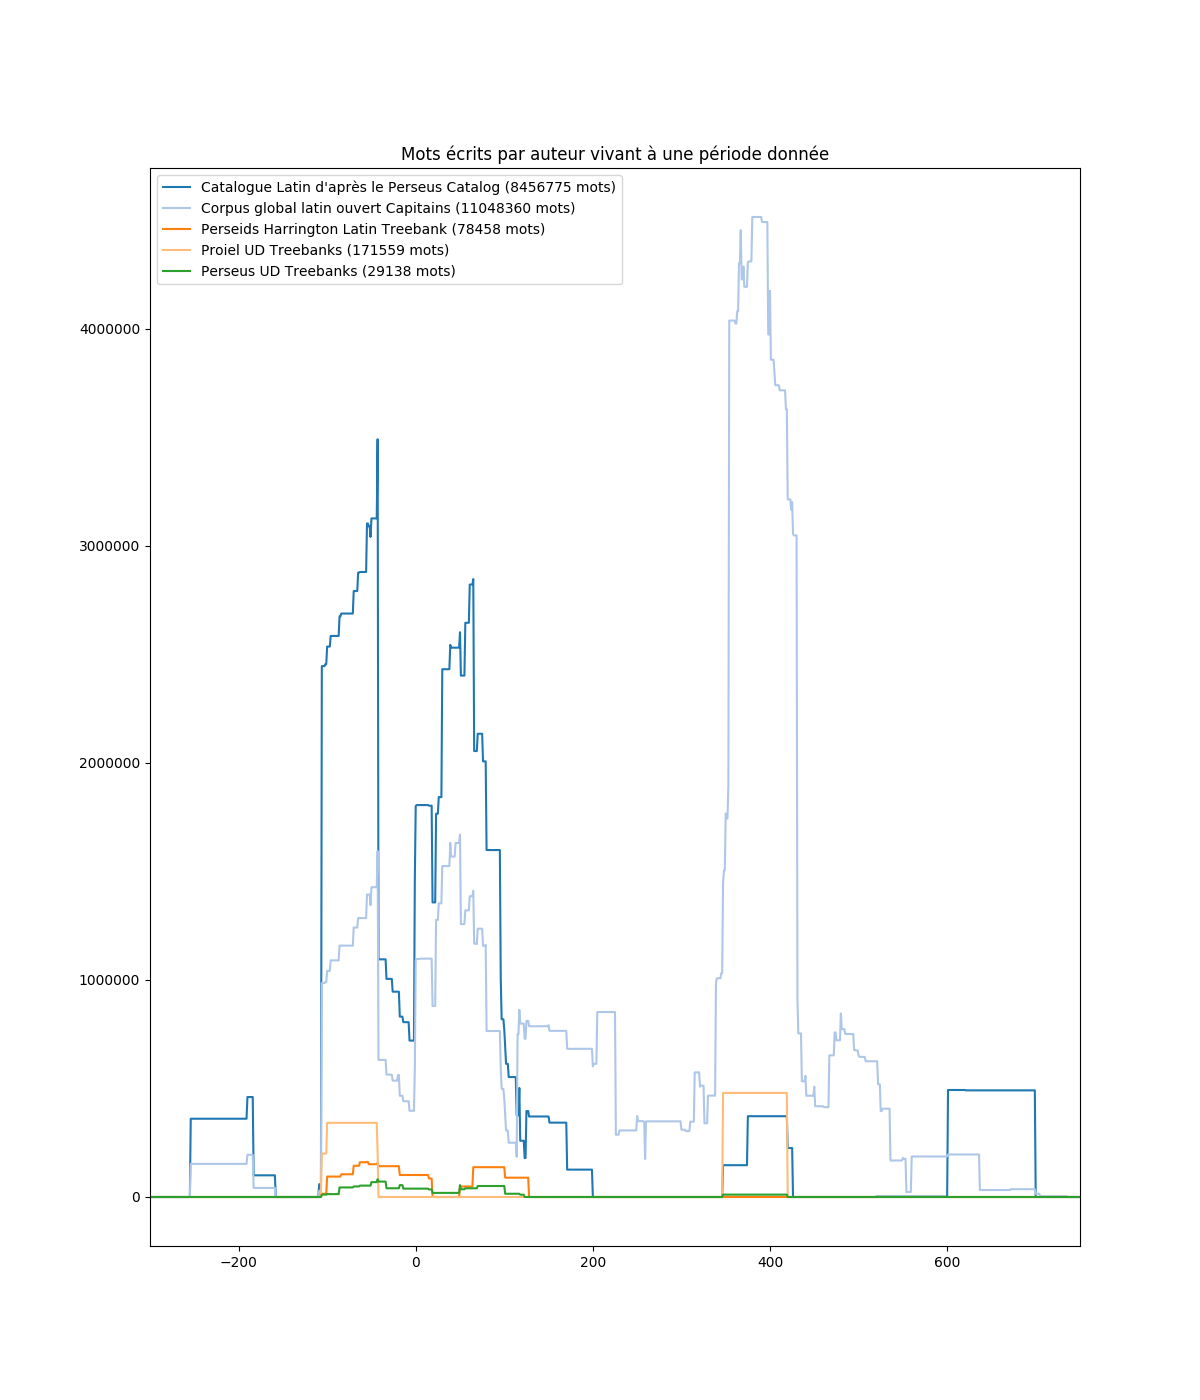
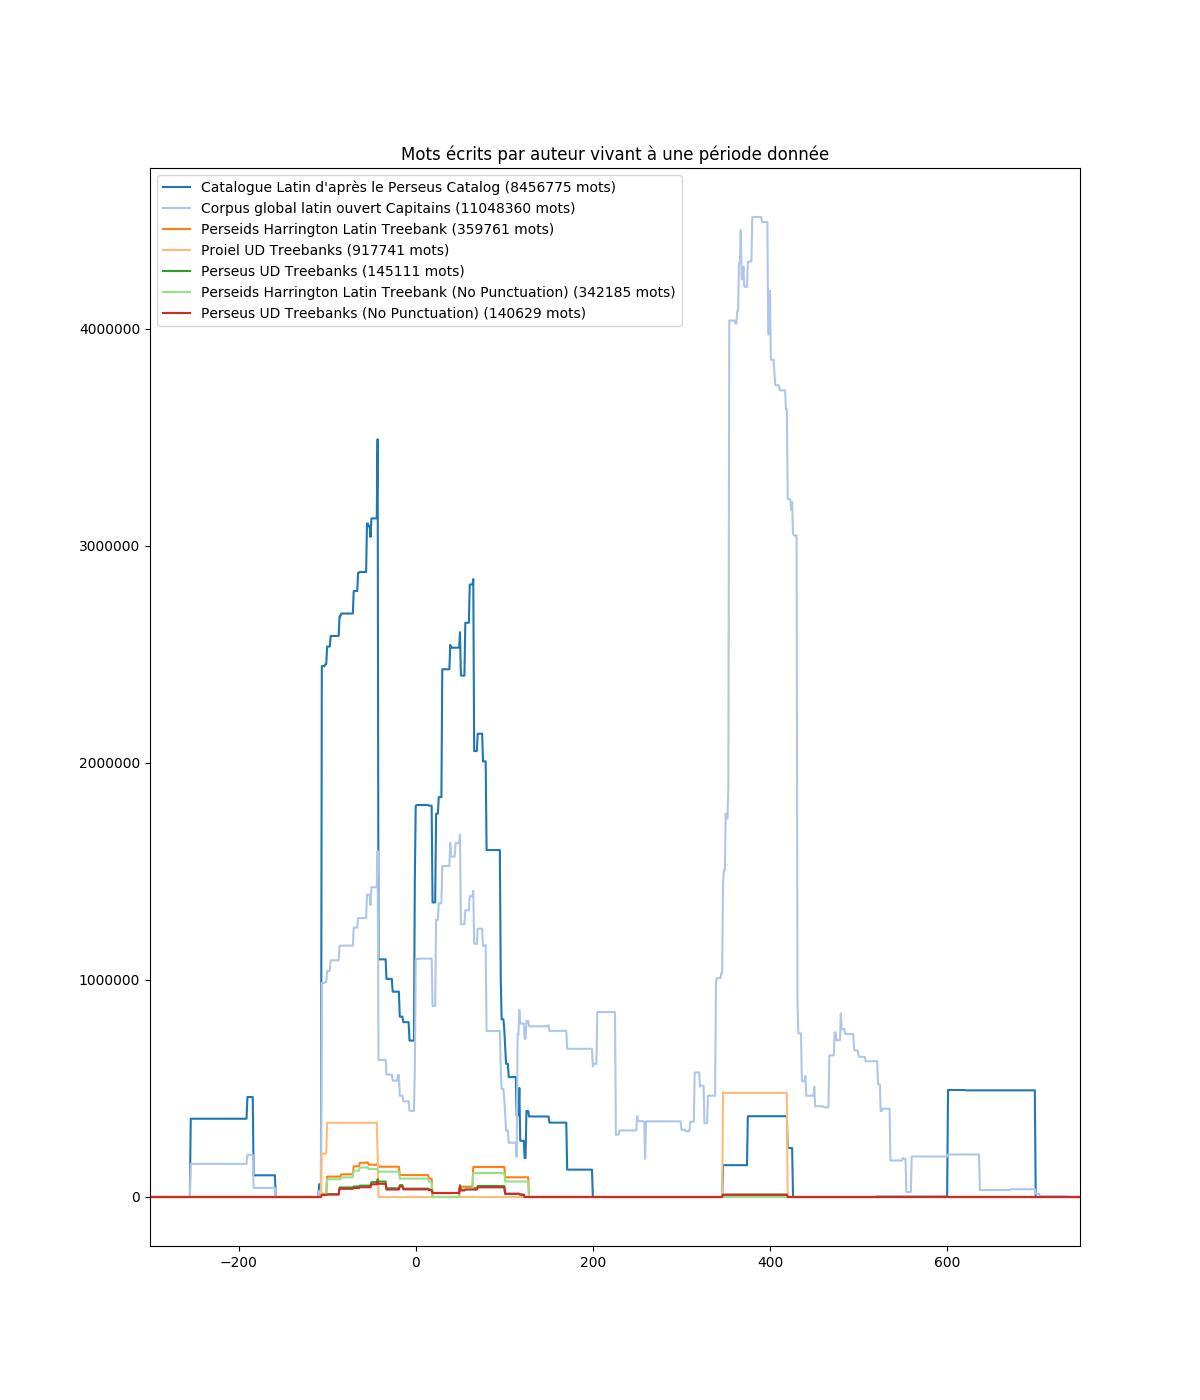
Analysis with filtered data is OKAY

Changed region(s): [[0.185, 0.1536, 0.555, 0.2457], [0.2775, 0.8293, 0.4625, 0.86], [0.6167, 0.8293, 0.6475, 0.86]]

diff --git a/helpers/treebanks/xml.py b/helpers/treebanks/xml.py
@@ -79,10 +79,21 @@ class PerseidsXMLCorpus(TreebankCorpus):
                     document_id = URN(document_id)
                     document_id = str(document_id.upTo(URN.VERSION))
 
-                    words = " ".join(sentence.xpath(".//word/@form"))
-                    if words not in data[document_id]:
-                        yield document_id.replace("lat1", "lat2"), sentence, words, " ".join(sentence.xpath(".//word/@lemma"))
-                        data[document_id].append(words)
+                    tags = [
+                        tag
+                        for tag in sentence.xpath(".//word")
+                        if (not self.remove or not self.remove.match(tag.get("form"))) and
+                           tag.get("lemma")
+                    ]
+
+                    words = [tag.get("form") for tag in tags]
+                    lemmas = [tag.get("lemma") for tag in tags]
+                    postags = [tag.get("postag") for tag in tags]
+                    joined_words = " ".join(words)
+
+                    if joined_words not in data[document_id]:
+                        yield document_id.replace("lat1", "lat2"), tags, words, lemmas, postags
+                        data[document_id].append(joined_words)
                     else:
                         if filename not in said_it_was_a_duplicate:
                             print(SUBSUBTASK_SEPARATOR + filename + " is a duplicate treebank")
@@ -94,10 +105,10 @@ class PerseidsXMLCorpus(TreebankCorpus):
         ))
 
     def parse(self):
-        for doc, s, words, lemmas in self.parse_sentences():
-            self._words[doc] += words.split()
-            self._lemmas[doc] += lemmas.split()
-            for postag in s.xpath(".//@postag"):
+        for doc, s, words, lemmas, postags in self.parse_sentences():
+            self._words[doc] += words
+            self._lemmas[doc] += lemmas
+            for postag in postags:
                 try:
                     self._types[doc][_CONLL_LA_CONV_DICT.get(postag[0], postag[0])] += 1
                 except:

diff --git a/analysis/general_analysis/treebank_analysis.py b/analysis/general_analysis/treebank_analysis.py
@@ -2,7 +2,7 @@ from .corpus_analysis import time_analysis
 import collections
 from helpers.reader.curated import get_graph, get_texts, get_text_length_dict
 from helpers.metadata import wordcounts
-from helpers.treebanks import Corpora, flatten_doc_dict
+from helpers.treebanks import Corpora, flatten_doc_dict, Filtered_Corpora, doc_token_dict_sum
 import matplotlib.pyplot as plt
 import copy
 import pandas
@@ -76,6 +76,8 @@ def build_series(graph, texts_dict, wc):
         )
     ]
 
+    InitialDataOffset = 2
+
     hypo_dict = copy.deepcopy(wc)
     hypo_dict.update(texts_dict)
 
@@ -91,10 +93,23 @@ def build_series(graph, texts_dict, wc):
         data.append(_Serie(
             corpus.name,
             len(corpus.words),
-            sum([len(li) for li in corpus.words.values()]),
+            doc_token_dict_sum(corpus.words),
             *time_analysis(graph, corpus.tokens_by_document, False, False))
         )
-    return data, hypothetical
+    filtered = []
+    for index, corpus in enumerate(Filtered_Corpora):
+        corpus.parse()
+
+        cwc = doc_token_dict_sum(corpus.words)
+
+        if cwc != data[index+InitialDataOffset].word_count:
+            filtered.append(_Serie(
+                corpus.name,
+                len(corpus.words),
+                cwc,
+                *time_analysis(graph, corpus.tokens_by_document, False, False))
+            )
+    return data, filtered, hypothetical
 
 
 def draw_series_graph(data, hypothetical):
@@ -169,10 +184,10 @@ def run(corpora):
     wc = wordcounts.build()
 
     # Build Pandas Series
-    data, hypothetical = build_series(graph, texts_dict, wc)
+    data, filtered_data, hypothetical = build_series(graph, texts_dict, wc)
 
     # Draw graph representation of series
-    #draw_series_graph(data, hypothetical)
+    draw_series_graph(data+filtered_data, hypothetical)
 
     # Drawing graphical analysis of each corpus
     draw_corpus_POS()

diff --git a/helpers/treebanks/__init__.py b/helpers/treebanks/__init__.py
@@ -1,10 +1,18 @@
 from .xml import PerseidsXMLCorpus
 from .conllu import ConlluTreebank
-from .utils import flatten_doc_dict
+from .utils import flatten_doc_dict, doc_token_dict_sum
+
 
 Harrington = PerseidsXMLCorpus(
     "data/raw/treebanks_xml/perseids-project_harrington_trees/harrington_trees-*/CITE_TREEBANK_XML/perseus/lattb/**/*.xml",
     name="Perseids Harrington Latin Treebank"
+)
+
+
+Harrington_filtered = PerseidsXMLCorpus(
+    "data/raw/treebanks_xml/perseids-project_harrington_trees/harrington_trees-*/CITE_TREEBANK_XML/perseus/lattb/**/*.xml",
+    name="Perseids Harrington Latin Treebank (No Punctuation)",
+    remove="^\W+$"
 )
 
 
@@ -14,9 +22,21 @@ Proiel = ConlluTreebank(
 )
 
 
+Proiel_filtered = ConlluTreebank(
+    "data/raw/treebanks_conllu/UniversalDependencies_UD_Latin-PROIEL/UD_Latin-PROIEL-*/*.conllu",
+    name="Proiel UD Treebanks (No Punctuation)",
+    remove="^\W+$"
+)
+
+
 Perseus = ConlluTreebank(
     "data/raw/treebanks_conllu/UniversalDependencies_UD_Latin-Perseus/UD_Latin-Perseus-*/*.conllu",
     name="Perseus UD Treebanks"
+)
+Perseus_filtered = ConlluTreebank(
+    "data/raw/treebanks_conllu/UniversalDependencies_UD_Latin-Perseus/UD_Latin-Perseus-*/*.conllu",
+    name="Perseus UD Treebanks (No Punctuation)",
+    remove="^\W+$"
 )
 
 
@@ -24,4 +44,10 @@ Corpora = [
     Harrington,
     Proiel,
     Perseus
+]
+
+Filtered_Corpora = [
+    Harrington_filtered,
+    Proiel_filtered,
+    Perseus_filtered
 ]

diff --git a/helpers/treebanks/base.py b/helpers/treebanks/base.py
@@ -2,6 +2,7 @@ import abc
 import glob
 import statistics
 import collections
+import re
 
 
 class TreebankCorpus:
@@ -10,7 +11,7 @@ class TreebankCorpus:
     :param files: Files that needs to be read (can be a glob pattern)
     :param name: Name of the corpus
     """
-    def __init__(self, files, name):
+    def __init__(self, files, name, remove=None):
         self.name = name
         if isinstance(files, str):
             files = glob.glob(files)
@@ -19,6 +20,9 @@ class TreebankCorpus:
         self._words = collections.defaultdict(list)
         self._lemmas = collections.defaultdict(list)
         self._types = collections.defaultdict(lambda: collections.defaultdict(lambda: 0))
+        self.remove = remove
+        if remove:
+            self.remove = re.compile(remove)
 
     @property
     def doc_count(self):

diff --git a/helpers/treebanks/conllu.py b/helpers/treebanks/conllu.py
@@ -65,7 +65,11 @@ class ConlluTreebank(TreebankCorpus):
                     }
 
                     try:
-                        tokens = parse(sentence)[0]
+                        tokens = [
+                            tok
+                            for tok in parse(sentence)[0]
+                            if not self.remove or not self.remove.match(tok["form"])
+                        ]
 
                         document_id = metadata.get("source", metadata.get("sent_id"))
                         document_id = URN(conversion(document_id))

diff --git a/helpers/treebanks/utils.py b/helpers/treebanks/utils.py
@@ -11,3 +11,19 @@ def flatten_doc_dict(data):
     for count_dict in data.values():
         new.update(count_dict)
     return new
+
+
+def doc_token_dict_sum(data):
+    """ Token count Dict into count of words {docId : [words]} -> int
+
+    :param data:{docId : [tokenCount]}
+    :type data: dict
+    :return:
+    """
+    return sum([
+        len(tokenCount)
+        for tokenCountList in data.values()
+        for tokenCount in tokenCountList
+    ])
+
+

diff --git a/helpers/reader/curated.py b/helpers/reader/curated.py
@@ -94,3 +94,4 @@ def ignored(graph):
             ?s lr:Ignore true
         }""")
     return [str(r) for r, *_ in results]
+

diff --git a/results/analysis/treebank_analysis/treebank_Perseids Harrington Latin Treebank.md b/results/analysis/treebank_analysis/treebank_Perseids Harrington Latin Treebank.md
@@ -1,13 +1,13 @@
 | Documents                                                        | Tokens     |
 | --                                                               | --         |
-| urn:cts:latinLit:phi1276.phi001.perseus-lat2                     | 17681      |
-| urn:cts:latinLit:phi0448.phi001.perseus-lat2                     | 15652      |
-| urn:cts:latinLit:phi0474.phi013.perseus-lat2                     | 1293       |
-| urn:cts:latinLit:phi0472.phi001.perseus-lat2                     | 2266       |
-| urn:cts:latinLit:phi0474.phi024.perseus-lat2                     | 1809       |
-| urn:cts:latinLit:phi0690.phi003.perseus-lat2                     | 7996       |
-| urn:cts:latinLit:phi0660.phi003.perseus-lat2                     | 323        |
-| urn:cts:latinLit:phi0959.phi001.perseus-lat2                     | 4208       |
-| urn:cts:latinLit:phi0959.phi006.perseus-lat2                     | 14240      |
-| urn:cts:latinLit:phi0972.phi001.perseus-lat2                     | 9910       |
-| urn:cts:latinLit:phi1221.phi007.perseus-lat2                     | 3080       |
+| urn:cts:latinLit:phi1221.phi007.perseus-lat2                     | 2970       |
+| urn:cts:latinLit:phi0690.phi003.perseus-lat2                     | 7307       |
+| urn:cts:latinLit:phi0472.phi001.perseus-lat2                     | 2137       |
+| urn:cts:latinLit:phi0474.phi013.perseus-lat2                     | 1241       |
+| urn:cts:latinLit:phi0972.phi001.perseus-lat2                     | 9190       |
+| urn:cts:latinLit:phi0959.phi006.perseus-lat2                     | 13018      |
+| urn:cts:latinLit:phi1276.phi001.perseus-lat2                     | 17265      |
+| urn:cts:latinLit:phi0660.phi003.perseus-lat2                     | 313        |
+| urn:cts:latinLit:phi0959.phi001.perseus-lat2                     | 3897       |
+| urn:cts:latinLit:phi0474.phi024.perseus-lat2                     | 1756       |
+| urn:cts:latinLit:phi0448.phi001.perseus-lat2                     | 15017      |

diff --git a/results/analysis/treebank_analysis/treebank_Perseus UD Treebanks.md b/results/analysis/treebank_analysis/treebank_Perseus UD Treebanks.md
@@ -1,14 +1,14 @@
 | Documents                                                        | Tokens     |
 | --                                                               | --         |
 | urn:cts:latinLit:phi0690.phi003.perseus-lat2                     | 776        |
-| urn:cts:greekLit:tlg0031.tlg027.perseus-lat2                     | 2001       |
-| urn:cts:latinLit:phi1221.phi007.perseus-lat2                     | 708        |
 | urn:cts:latinLit:phi1351.phi005.perseus-lat2                     | 866        |
+| urn:cts:latinLit:phi0474.phi013.perseus-lat2                     | 1897       |
 | urn:cts:latinLit:phi0975.phi001.perseus-lat2                     | 4116       |
-| urn:cts:latinLit:phi1348.abo012.perseus-lat2                     | 2046       |
+| urn:cts:latinLit:phi1221.phi007.perseus-lat2                     | 708        |
 | urn:cts:latinLit:phi0959.phi006.perseus-lat2                     | 2652       |
 | urn:cts:latinLit:phi0448.phi001.perseus-lat2                     | 352        |
-| urn:cts:latinLit:phi0972.phi001.perseus-lat2                     | 5949       |
-| urn:cts:latinLit:phi0474.phi013.perseus-lat2                     | 1897       |
-| urn:cts:latinLit:phi0631.phi001.perseus-lat2                     | 4999       |
+| urn:cts:latinLit:phi1348.abo012.perseus-lat2                     | 2046       |
 | urn:cts:latinLit:phi0620.phi001.perseus-lat2                     | 2776       |
+| urn:cts:greekLit:tlg0031.tlg027.perseus-lat2                     | 2001       |
+| urn:cts:latinLit:phi0972.phi001.perseus-lat2                     | 5949       |
+| urn:cts:latinLit:phi0631.phi001.perseus-lat2                     | 4999       |

diff --git a/results/analysis/treebank_analysis/treebank_Proiel UD Treebanks.md b/results/analysis/treebank_analysis/treebank_Proiel UD Treebanks.md
@@ -1,5 +1,5 @@
 | Documents                                                        | Tokens     |
 | --                                                               | --         |
-| urn:cts:latinLit:phi0448.phi001.perseus-lat2                     | 27402      |
 | urn:cts:greekLit:tlg0031.tlg001.perseus-lat2                     | 103703     |
+| urn:cts:latinLit:phi0448.phi001.perseus-lat2                     | 27402      |
 | urn:cts:latinLit:phi0474.phi057.perseus-lat2                     | 40454      |
